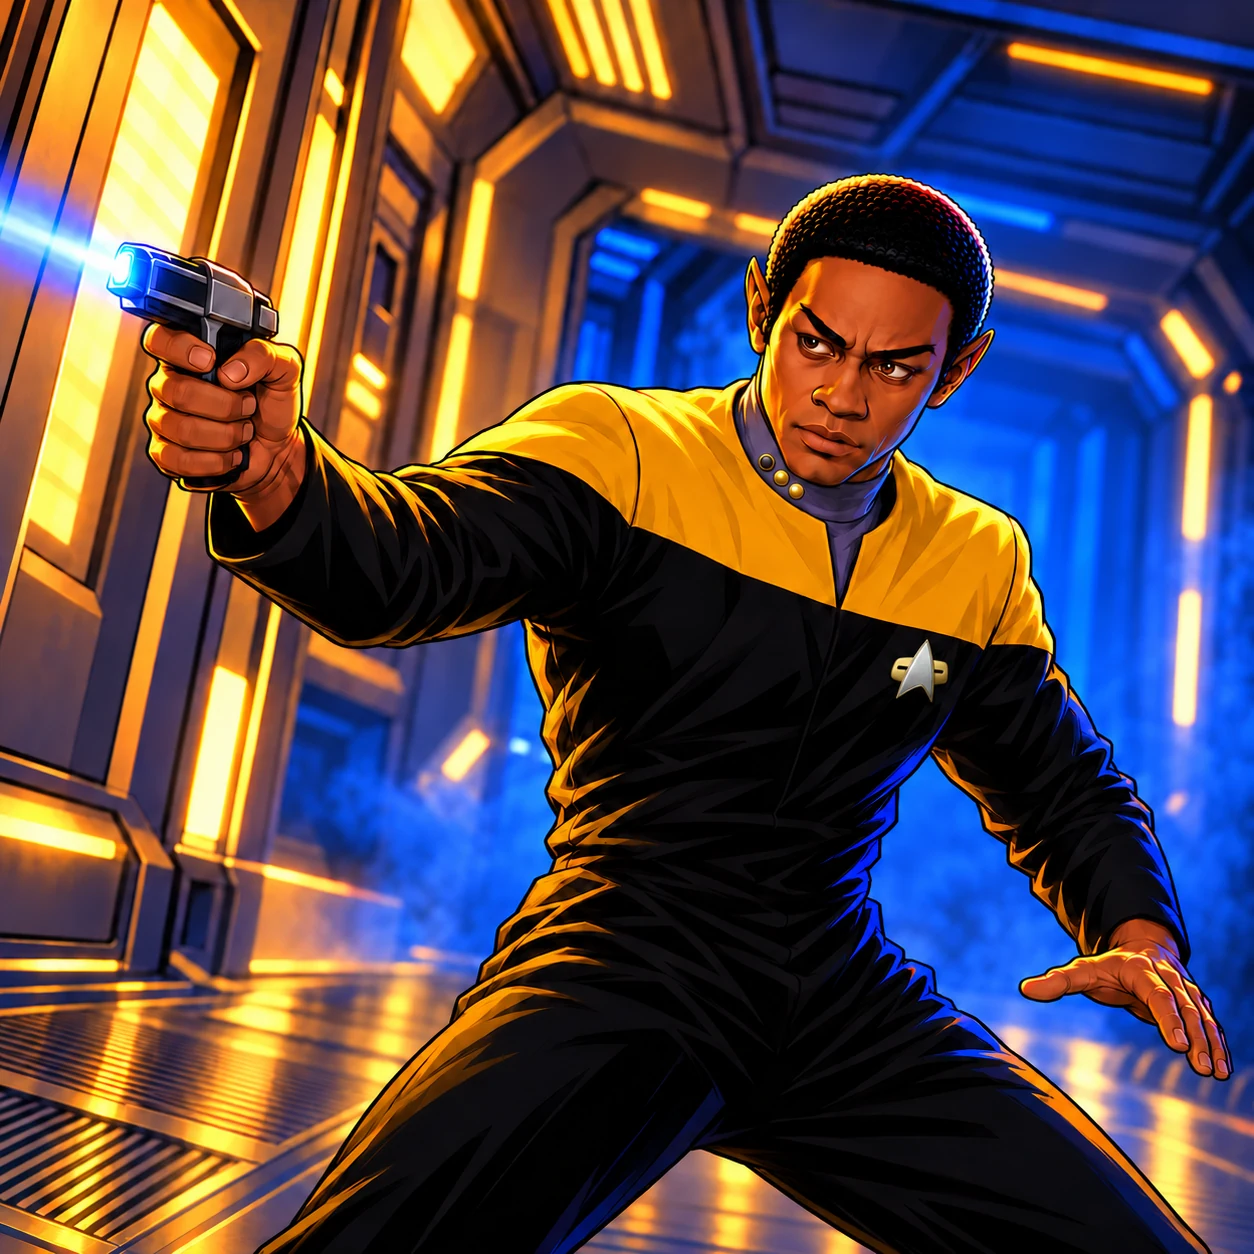
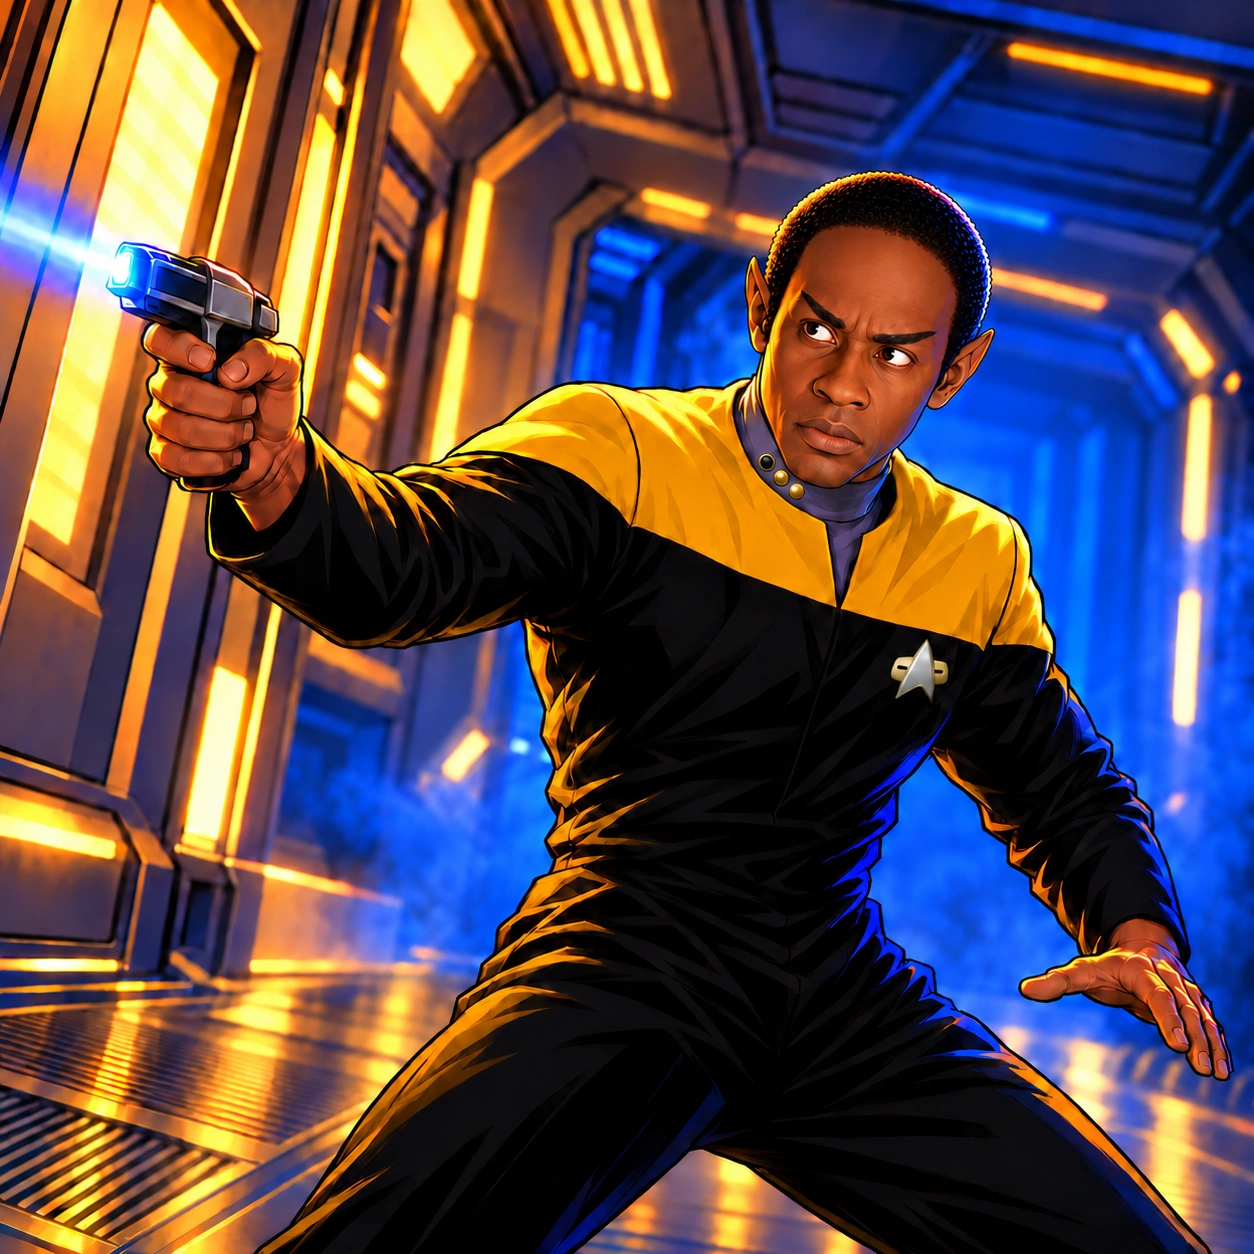
more tuvok visual improvements and misc updates

diff --git a/playtest-app/index.html b/playtest-app/index.html
@@ -1,1 +1,1 @@
-<!doctype html><html lang="en"><head><meta charset="UTF-8"><meta name="viewport" content="width=device-width,initial-scale=1,viewport-fit=cover"><meta name="theme-color" content="#101a2c"><link rel="stylesheet" href="%BASE_URL%assets/Shared/fonts/fonts.css"><title>STDT Playtesting</title></head><body><div id="app"></div><script type="module" src="/src/main.js"></script></body></html>
+<!doctype html><html lang="en"><head><meta charset="UTF-8"><meta name="viewport" content="width=device-width,initial-scale=1,viewport-fit=cover"><meta name="theme-color" content="#101a2c"><link rel="icon" type="image/svg+xml" href="%BASE_URL%app-icon.svg"><link rel="apple-touch-icon" href="%BASE_URL%apple-touch-icon.png"><link rel="stylesheet" href="%BASE_URL%assets/Shared/fonts/fonts.css"><title>STDT Playtesting</title></head><body><div id="app"></div><script type="module" src="/src/main.js"></script></body></html>

diff --git a/AGENTS.md b/AGENTS.md
@@ -38,6 +38,8 @@
 - Do not place a comma immediately after a die-face/dice icon or group in gameplay rules. When editing `rules.md`, remove such commas while preserving other punctuation (including commas after status-token icons), wording, and icon order, then refresh the current inventory metadata. Check all affected rule blocks, including inline die results and grouped dice.
 - No rendered line on any asset may begin with a dash. Do not include leading dash list markers in `rules.md` rules blocks or render them from any rules source. All conversion scripts must discard leading list-marker dashes before line layout, including after explicit line breaks, while preserving internal hyphens, rules wording, and line spacing. Treat these leading list markers as formatting, not rules punctuation.
 - The playtest app stores separate asset versions under `playtest-app/public/assets/`. Rules updates must cover the corresponding primary and playtest app SVGs for the active hero. Preserve each version's artwork, linked resources, and app-specific presentation.
+- Whenever the user approves new artwork or a new version of existing artwork, create or update its corresponding WebP in `playtest-app/public/assets/` from the approved artwork. Verify the saved WebP and its playtest asset references.
+- Whenever a new hero or a new hero asset is added, update the playtest app to include the new content.
 - Raster source artwork and existing exports may still be used where applicable; SVGs are the editable source of truth for asset presentation, while `rules.md` remains the source of truth for rules.
 
 ## Heroes and task scope
